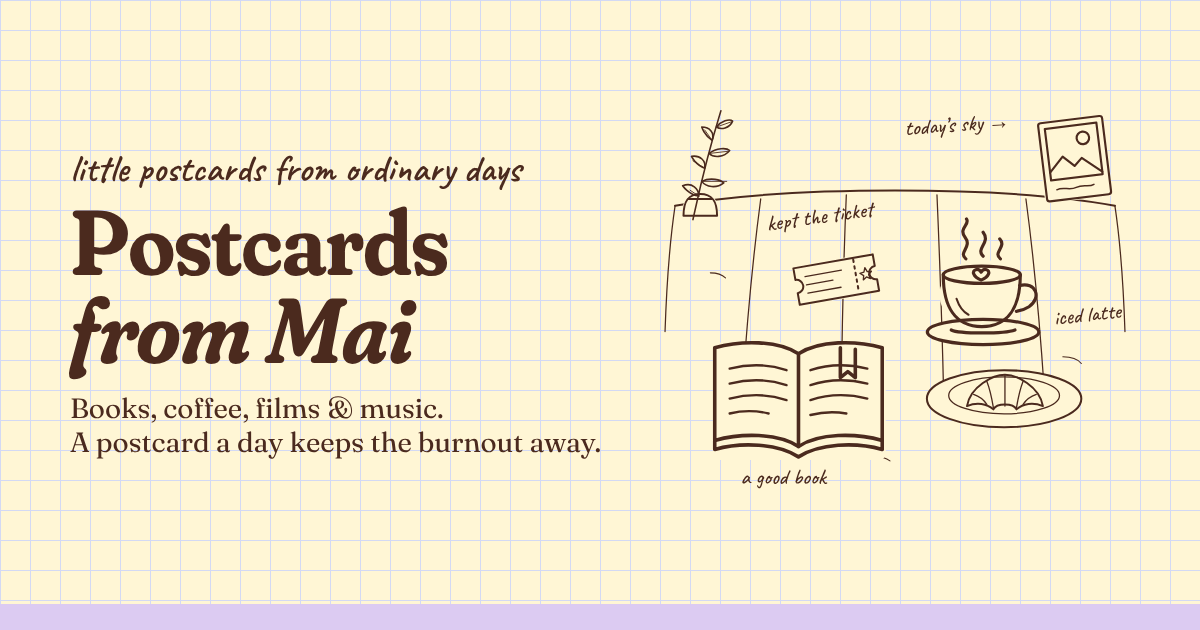
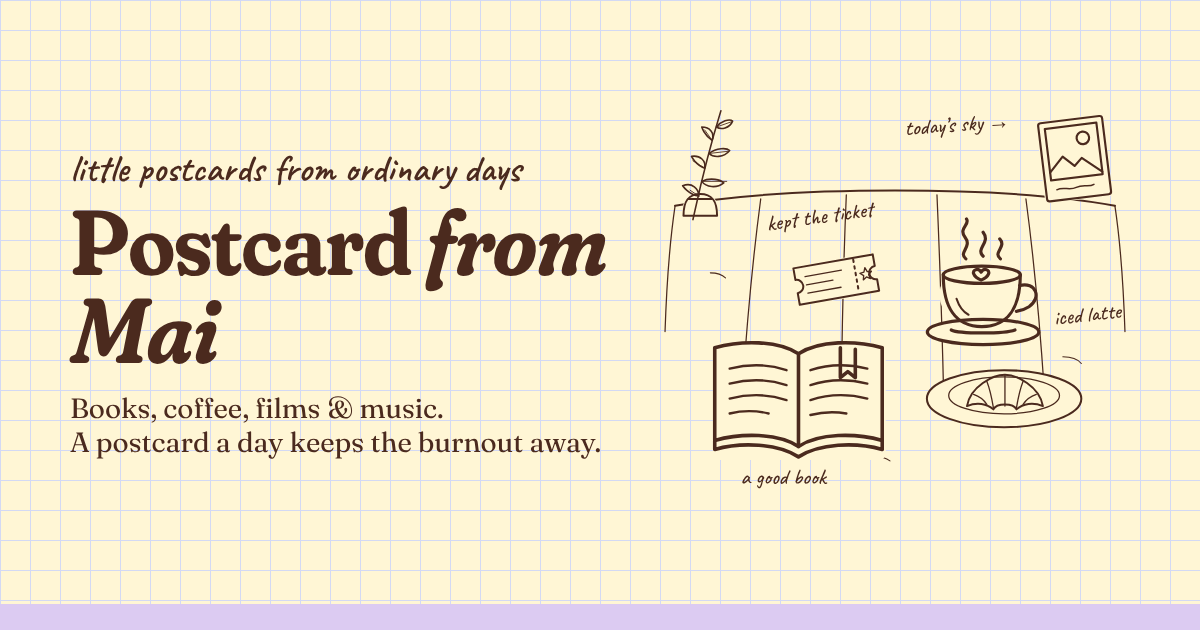
Rename to Postcard from Mai to match the address
Claude-Session: https://claude.ai/code/session_013FWzLDE5EfABH65eiGaWr4

Changed region(s): [[0.0308, 0.3317, 0.5242, 0.6032]]

diff --git a/site/index.html b/site/index.html
@@ -3,12 +3,12 @@
 <head>
 <meta charset="utf-8">
 <meta name="viewport" content="width=device-width, initial-scale=1">
-<title>Postcards from Mai</title>
+<title>Postcard from Mai</title>
 <meta name="description" content="A little online journal: books, coffee shops, films and series, music and photos. A postcard a day keeps the burnout away.">
 <meta name="theme-color" content="#FFFAE8">
 <meta property="og:type" content="website">
-<meta property="og:site_name" content="Postcards from Mai">
-<meta property="og:title" content="Postcards from Mai">
+<meta property="og:site_name" content="Postcard from Mai">
+<meta property="og:title" content="Postcard from Mai">
 <meta property="og:description" content="Books, coffee, films & music. A postcard a day keeps the burnout away.">
 <meta property="og:url" content="https://postcardfrommai.github.io/">
 <meta property="og:image" content="https://postcardfrommai.github.io/og-image.png">
@@ -350,7 +350,7 @@ footer.bottom small{display:block;max-width:420px;font-size:14px;line-height:1.5
 </defs>
 </svg>
 <header class="top"><div class="in">
-<a class="logo" href="#home"><svg class="doodle" aria-hidden="true"><use href="#d-cup"/></svg>Postcards from Mai</a>
+<a class="logo" href="#home"><svg class="doodle" aria-hidden="true"><use href="#d-cup"/></svg>Postcard from Mai</a>
 <nav class="menu" aria-label="Sections">
 <a href="#books">Books</a><a href="#coffee">Coffee</a><a href="#watched">Watched</a><a href="#music">Music</a><a href="#photos">Photos</a><a href="#about">About</a>
 </nav>
@@ -358,7 +358,7 @@ footer.bottom small{display:block;max-width:420px;font-size:14px;line-height:1.5
 <main id="view" aria-live="polite"><p class="muted" style="padding:96px 18px;text-align:center">Opening the notebook…</p></main>
 <footer class="bottom band b-orange"><div class="in">
 <div style="max-width:440px">
-<a class="logo" href="#home" style="font-size:32px"><svg class="doodle" aria-hidden="true"><use href="#d-cup"/></svg>Postcards from Mai</a>
+<a class="logo" href="#home" style="font-size:32px"><svg class="doodle" aria-hidden="true"><use href="#d-cup"/></svg>Postcard from Mai</a>
 <p class="hand" style="font-size:26px;margin:10px 0 14px">a postcard a day keeps the burnout away</p>
 <small>A public little notebook. All words and photos © Mai. Please ask before using them.</small>
 </div>
@@ -590,7 +590,7 @@ function track() {
   const e = h.startsWith('e-') ? all.find(x => x.id === h.slice(2)) : null;
   const names = {home: 'Home', latest: 'Home', books: 'Books', coffee: 'Coffee', watched: 'Watched', photos: 'Photos', music: 'Music', about: 'About'};
   const title = e ? (e.title || e.caption || 'Entry') : (names[h] || 'Home');
-  document.title = title === 'Home' ? 'Postcards from Mai' : title + ' · Postcards from Mai';
+  document.title = title === 'Home' ? 'Postcard from Mai' : title + ' · Postcard from Mai';
   let tries = 0;
   const send = () => {
     const gc = window.goatcounter;

diff --git a/tools/build.py b/tools/build.py
@@ -1,11 +1,11 @@
-"""Builds the public website for Postcards from Mai.
+"""Builds the public website for Postcard from Mai.
 
 Runs automatically on GitHub after every post (see .github/workflows/publish.yml):
   1. Reads every entry in content/<type>/*.md
   2. Writes them all into _site/entries.json for the page to show
   3. Copies each photo into _site/media after removing its hidden data
      (GPS location, phone model, time), resizing it for the web,
-     and adding the "© Postcards from Mai" watermark.
+     and adding the "© Postcard from Mai" watermark.
 """
 import datetime as dt
 import html
@@ -22,7 +22,7 @@ from PIL import Image, ImageDraw, ImageFilter, ImageFont, ImageOps
 ROOT = Path(__file__).resolve().parent.parent
 OUT = ROOT / "_site"
 FONT = ROOT / "tools" / "LiberationSerif-Italic.ttf"
-MARK = "© Postcards from Mai"
+MARK = "© Postcard from Mai"
 MAX_SIDE = 1600
 SITE = "https://postcardfrommai.github.io"
 VARIANTS = (480, 960)  # smaller copies for phones, named <name>-480.jpg and <name>-960.jpg
@@ -209,7 +209,7 @@ def describe(e):
         "music": f"{e.get('title', '')}" + (f" by {e['artist']}" if e.get("artist") else ""),
         "photo": e.get("title") or e.get("caption") or "A photo",
     }.get(t, e.get("title", ""))
-    out = f"{lead}. {text}" if text else f"{lead}. From Postcards from Mai."
+    out = f"{lead}. {text}" if text else f"{lead}. From Postcard from Mai."
     return out if len(out) <= 160 else out[:157].rsplit(" ", 1)[0] + "…"
 
 
@@ -219,7 +219,7 @@ def page_title(e):
         name = f"{name} by {e['artist']}"
     if e["type"] == "book" and e.get("author"):
         name = f"{name} by {e['author']}"
-    return f"{name} · Postcards from Mai"
+    return f"{name} · Postcard from Mai"
 
 
 def prerender(e):

diff --git a/README.md b/README.md
@@ -1,4 +1,4 @@
-# Postcards from Mai
+# Postcard from Mai
 
 A little online journal: books, coffee shops, movies & series, photos and small days.
 
@@ -11,7 +11,7 @@ A little online journal: books, coffee shops, movies & series, photos and small 
 4. The site updates by itself within about a minute.
 
 ## What happens to photos
-Every photo is processed automatically before it appears on the site: its hidden data (GPS location, phone model, time) is removed, it is resized for the web, and a "© Postcards from Mai" watermark is added. Keep **Location tags** off in your phone's camera settings, because the original upload is also kept in this repository.
+Every photo is processed automatically before it appears on the site: its hidden data (GPS location, phone model, time) is removed, it is resized for the web, and a "© Postcard from Mai" watermark is added. Keep **Location tags** off in your phone's camera settings, because the original upload is also kept in this repository.
 
 ## Files
 - `content/` — your entries, one file each
